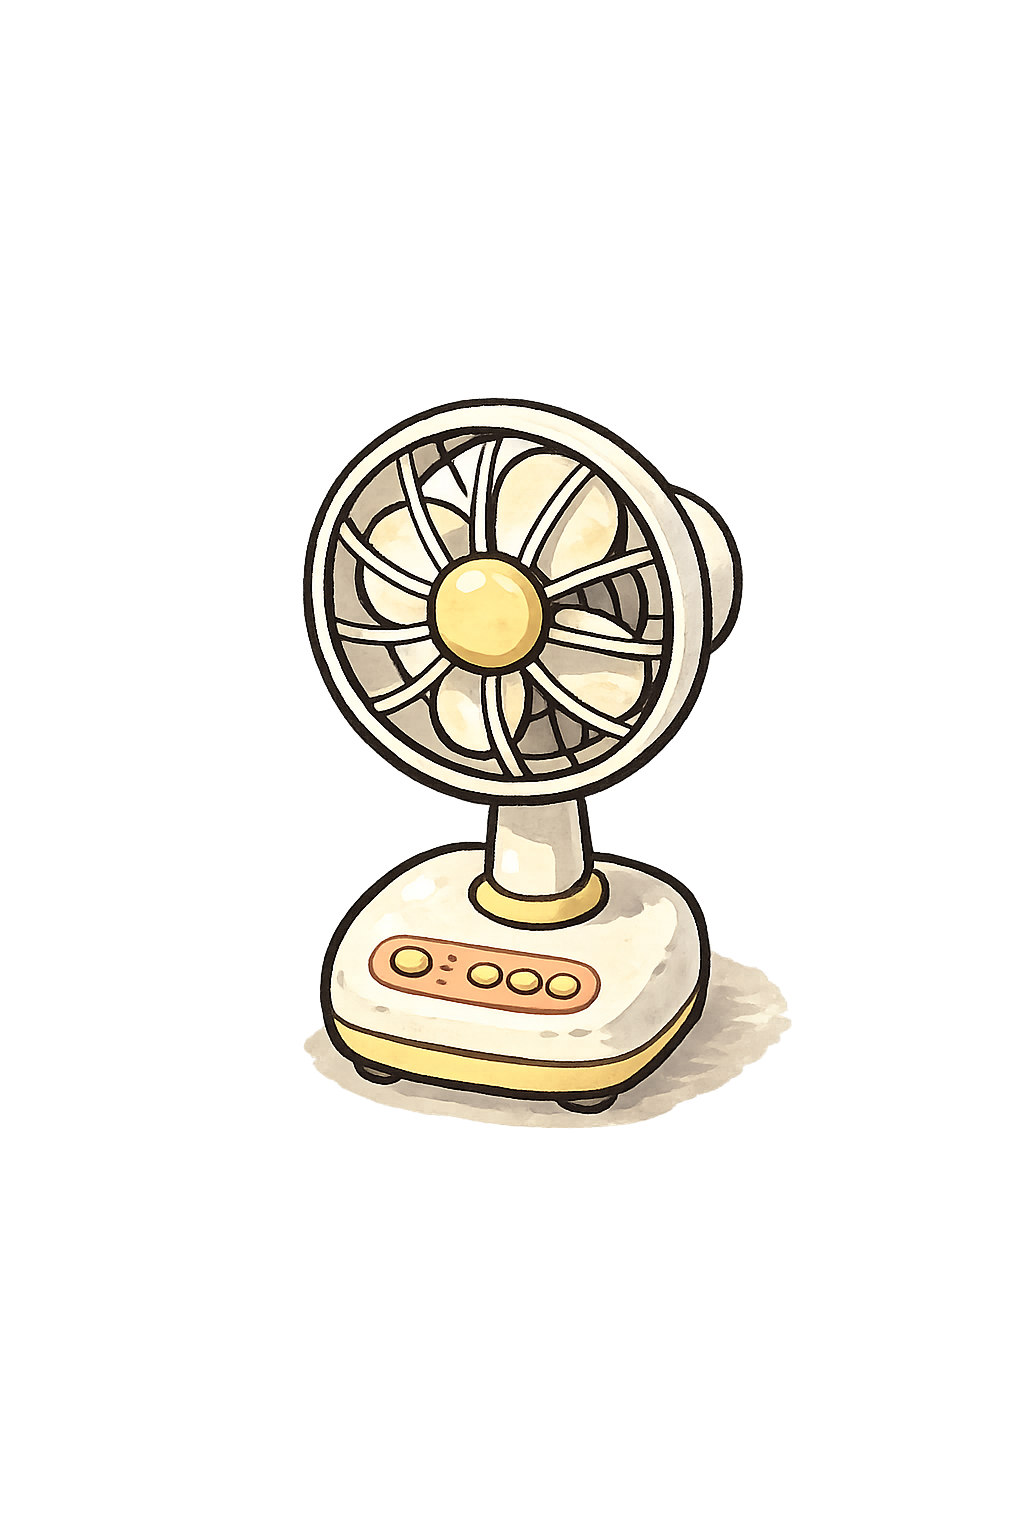
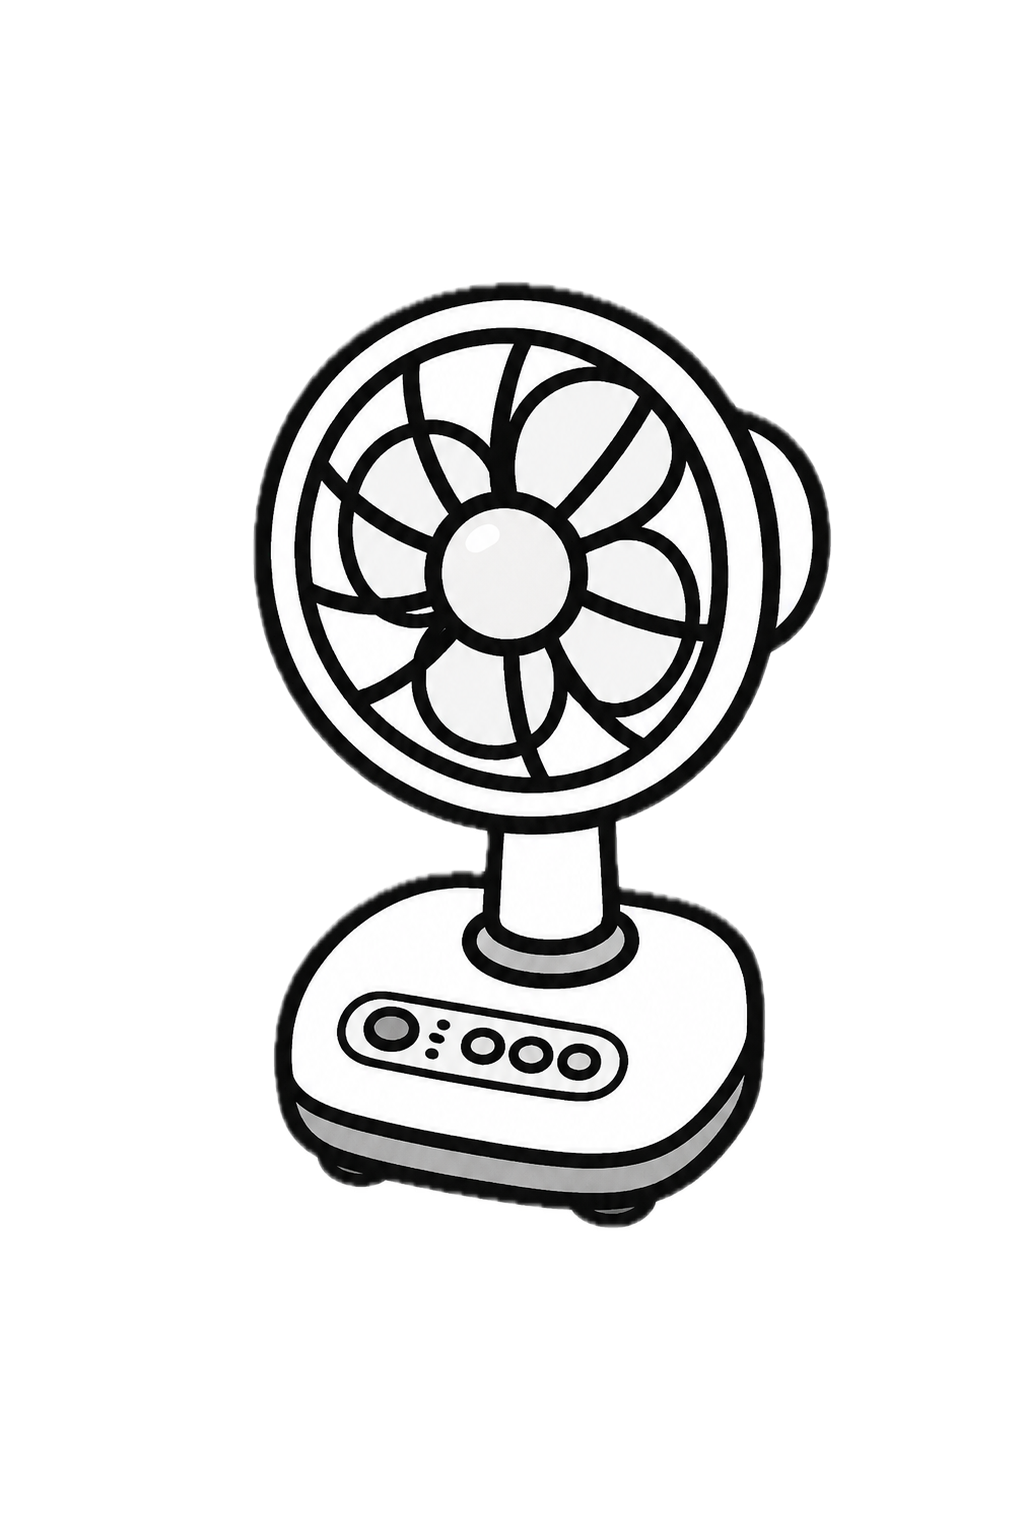
docs(worklog): AI 배치 기록 추가

Changed region(s): [[0.2424, 0.1562, 0.8182, 0.8125]]

diff --git a/docs/worklog.md b/docs/worklog.md
@@ -2,6 +2,7 @@
 
 ## 2026-07-08
 
+- AI 배치 도입: 배치 버튼이 /api/place(Vercel 함수)로 GPT(gpt-5-mini, strict structured output) 좌표를 받아 scoring 기반 검증·수리(스냅·채움) 후 배치. 실패·타임아웃·vite dev는 로컬 룰렛 자동 폴백. key는 서버 env로만 — 실호출 3.4초·군집/링 배치 확인.
 - 미적 배치 v1: 균등 랜덤을 메타데이터(존 선호·군집·최소 간격) 기반 가중치 룰렛 샘플링으로 교체 — 집이 중앙 공터에 놓이는 부적절 배치 교정, 허용(placeable)/선호(zone) 분리로 변칙성 유지. 신규 에셋 토스트·선풍기 등록. AI 배치(LLM 하이브리드)는 2단계 스펙으로 예정.
 
 - 라이트 테마 전환 + 캐릭터 2×2 확대: 우주 다크(#13111B)에서 흰 바탕·검정 primary로 UI 색 전면 교체(손그림 아트와 톤 맞춤), 캐릭터 footprint 1×1→2×2·scale 1. 미사용 bg.png 제거, 타원 미리보기·복사 피드백 색 라이트 대응.